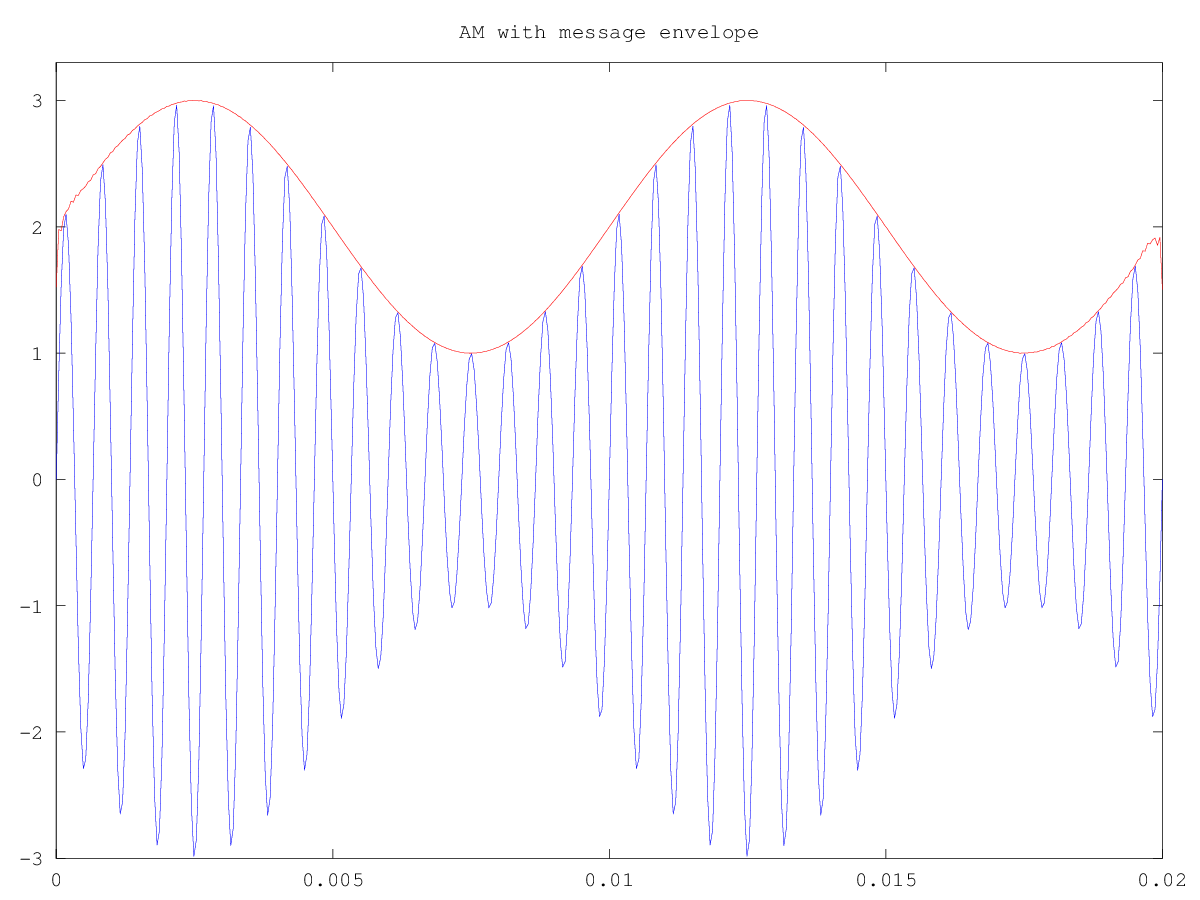
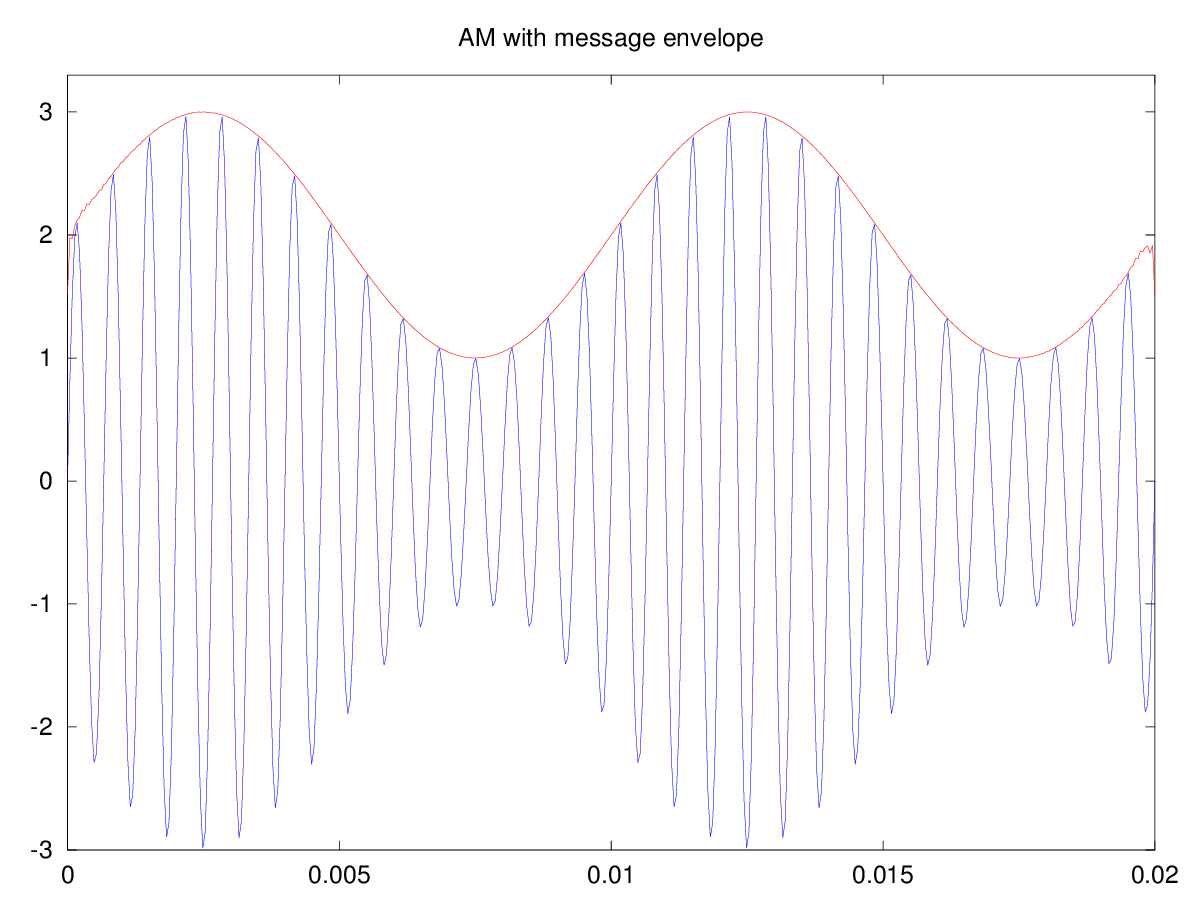
Fine tuning the chapter on AM demodulation with AGC
Modified the figures of AM demodualtion waveforms.

diff --git a/chapters/amdemodAGC.tex b/chapters/amdemodAGC.tex
@@ -69,7 +69,7 @@ The detector circuit with simple AGC is shown in Figure. \ref{detectagcckt}.%and
 \section*{Procedure}
 \begin{enumerate}
 \item
-{Connect the diode to the output of AM signal as in the circuit diagram Fig. \ref{detectagcckt}.}
+Connect the diode to the output of AM signal(See Figure. \ref{amenv}) as in the circuit diagram Fig. \ref{detectagcckt}.
 \item
 Connect load resistance $R_L$ and observe the outputwaveform on a CRO and plot it.
 \item
@@ -88,11 +88,20 @@ Eliminte the dc offset and observe the modulating signal from the $10\mu F$ capa
 %Slightly go on increasing the carrier amplitude. Note that for small values of carrier amplitude, delayed AGC voltage is positive. When it is above a certain limit the delayed AGC value becomes negative.
 \end{enumerate}
 \section*{Observation}
-The following are the observed results of the experiment. See Figure. \ref{demodagcwaves}.
+The following are the observed results of the experiment. See Figure. \ref{aminter} and Figure. \ref{demodagcwaves} for the waveforms of intermediate and final stages.
 \begin{figure}
-\includegraphics[height=4cm, width=12cm]{am.png}
-\includegraphics[height=7cm, width=12cm]{demodfig.png}
-\includegraphics[height=7cm, width=12cm]{demodagc2.png}
+\includegraphics[height=8cm, width=12cm]{am.png}
+\caption{AM with message envelope}
+\label{amenv}
+\end{figure}
+\begin{figure}
+\includegraphics[height=8cm, width=12cm]{demodfig.png}
+\caption{Intermediate stage of demodulation}
+\label{aminter}
+
+\end{figure}
+\begin{figure}
+\includegraphics[height=8cm, width=\textwidth]{demodagc2.png}
 \caption{Output waveforms from demodulation circuit}
 \label{demodagcwaves}
 \end{figure}
